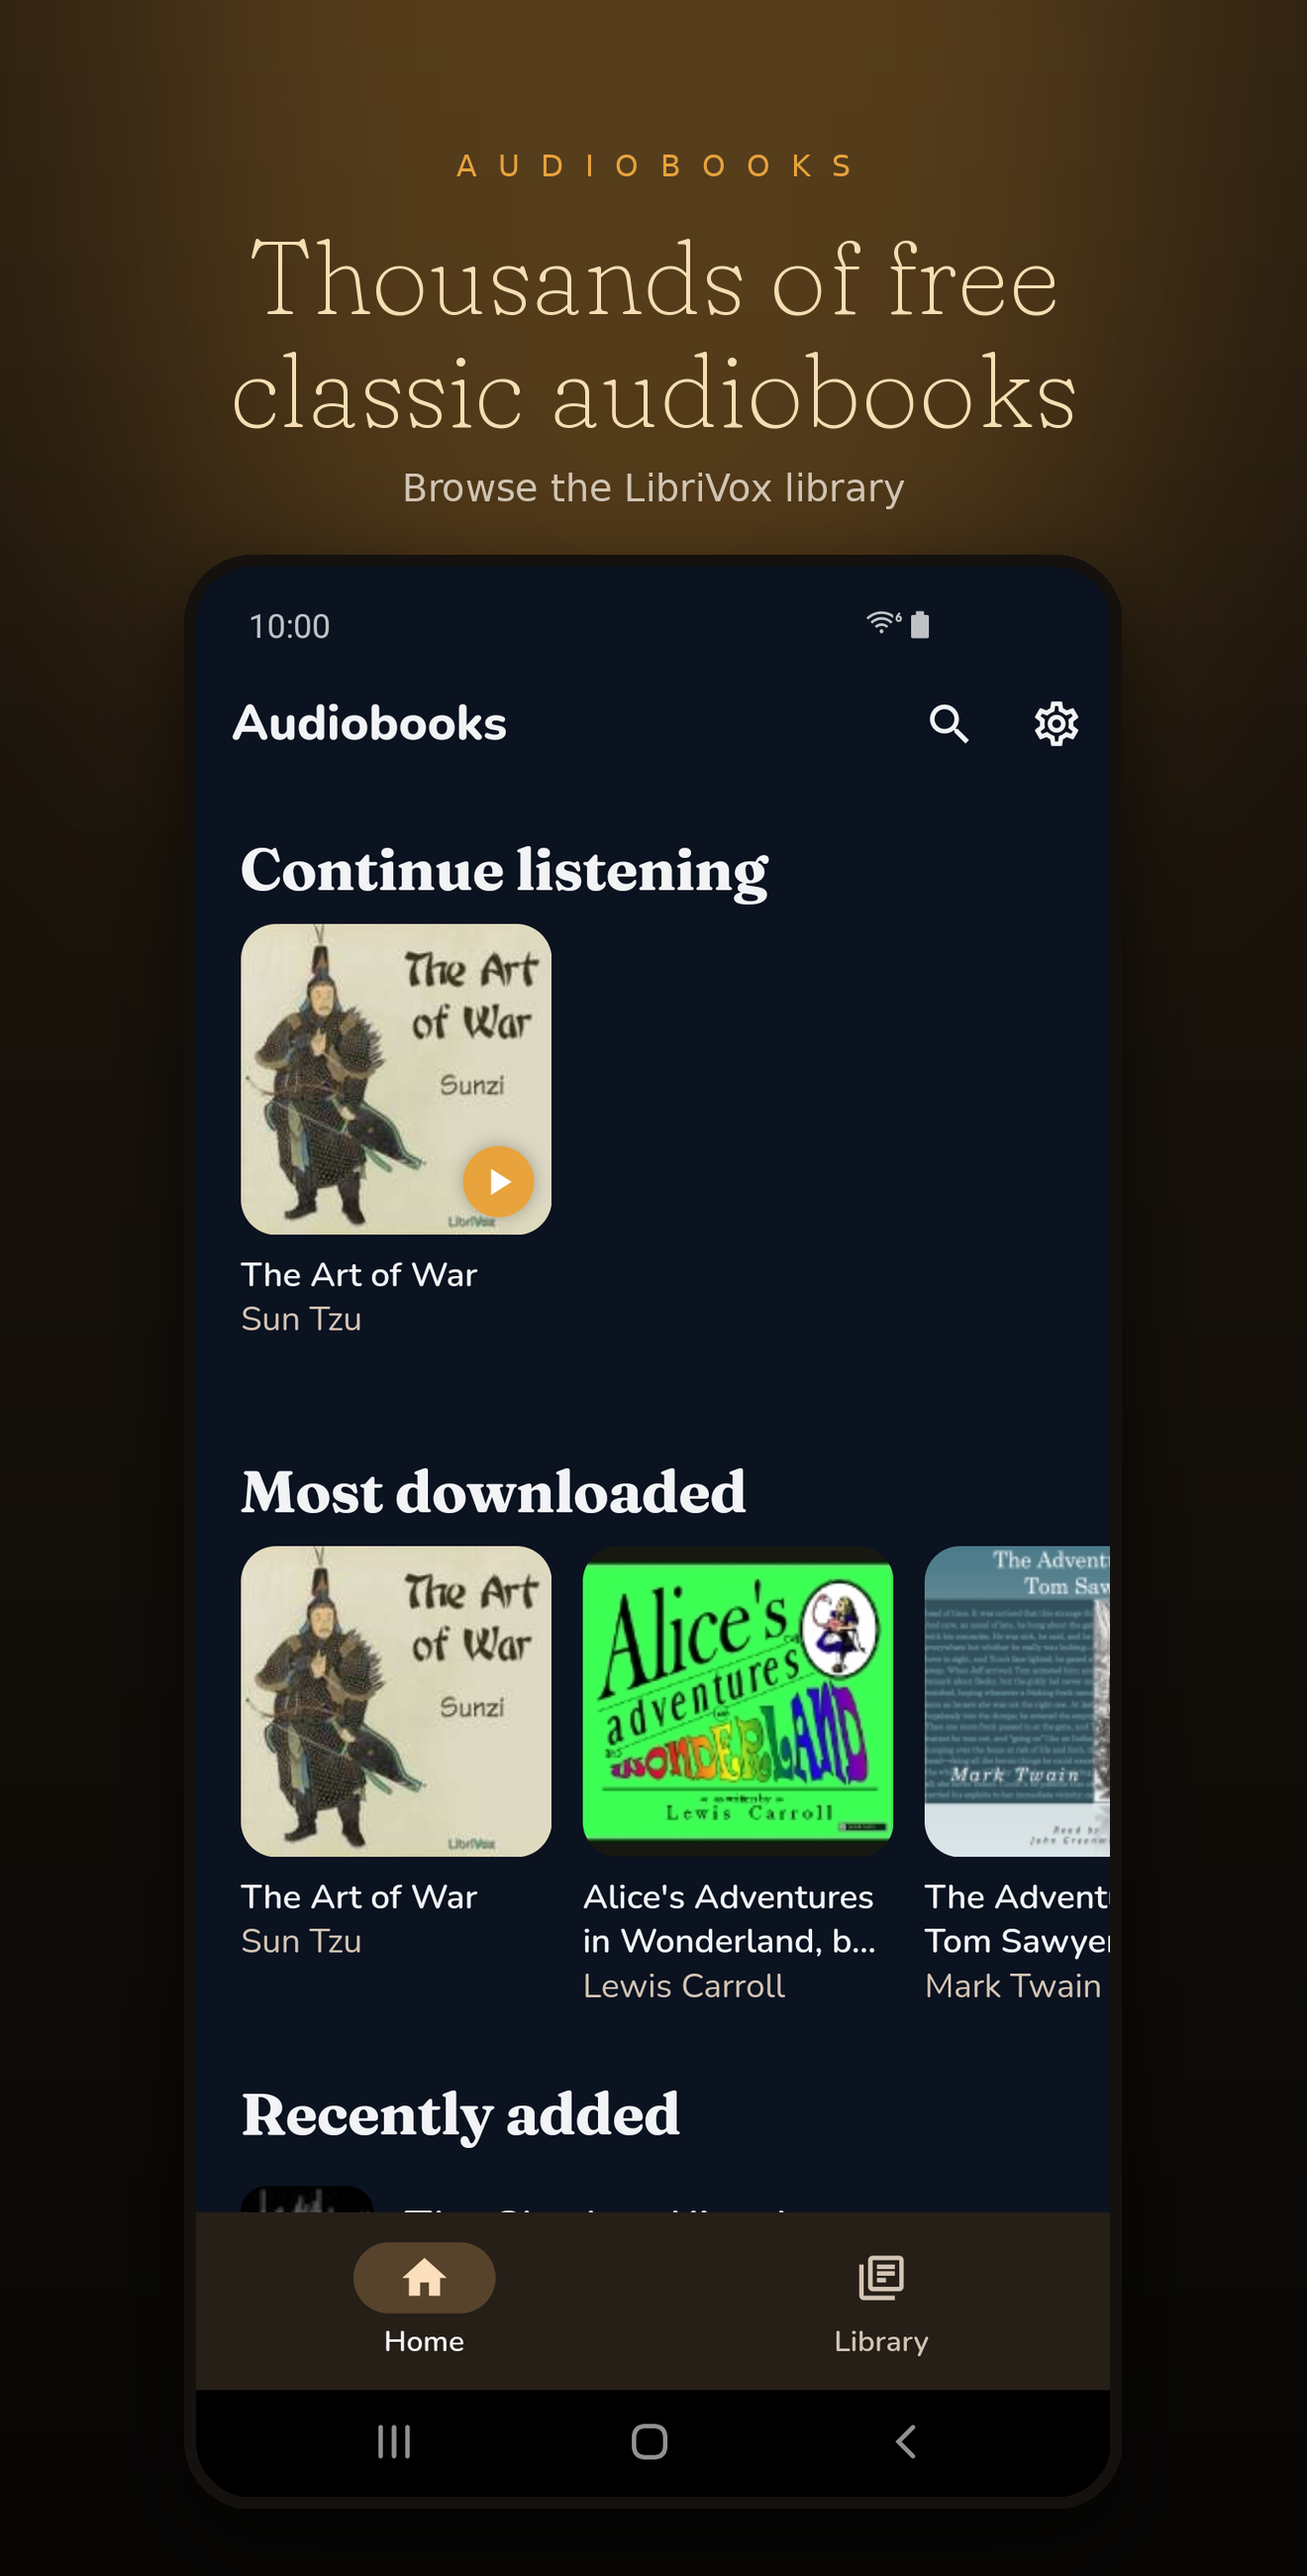
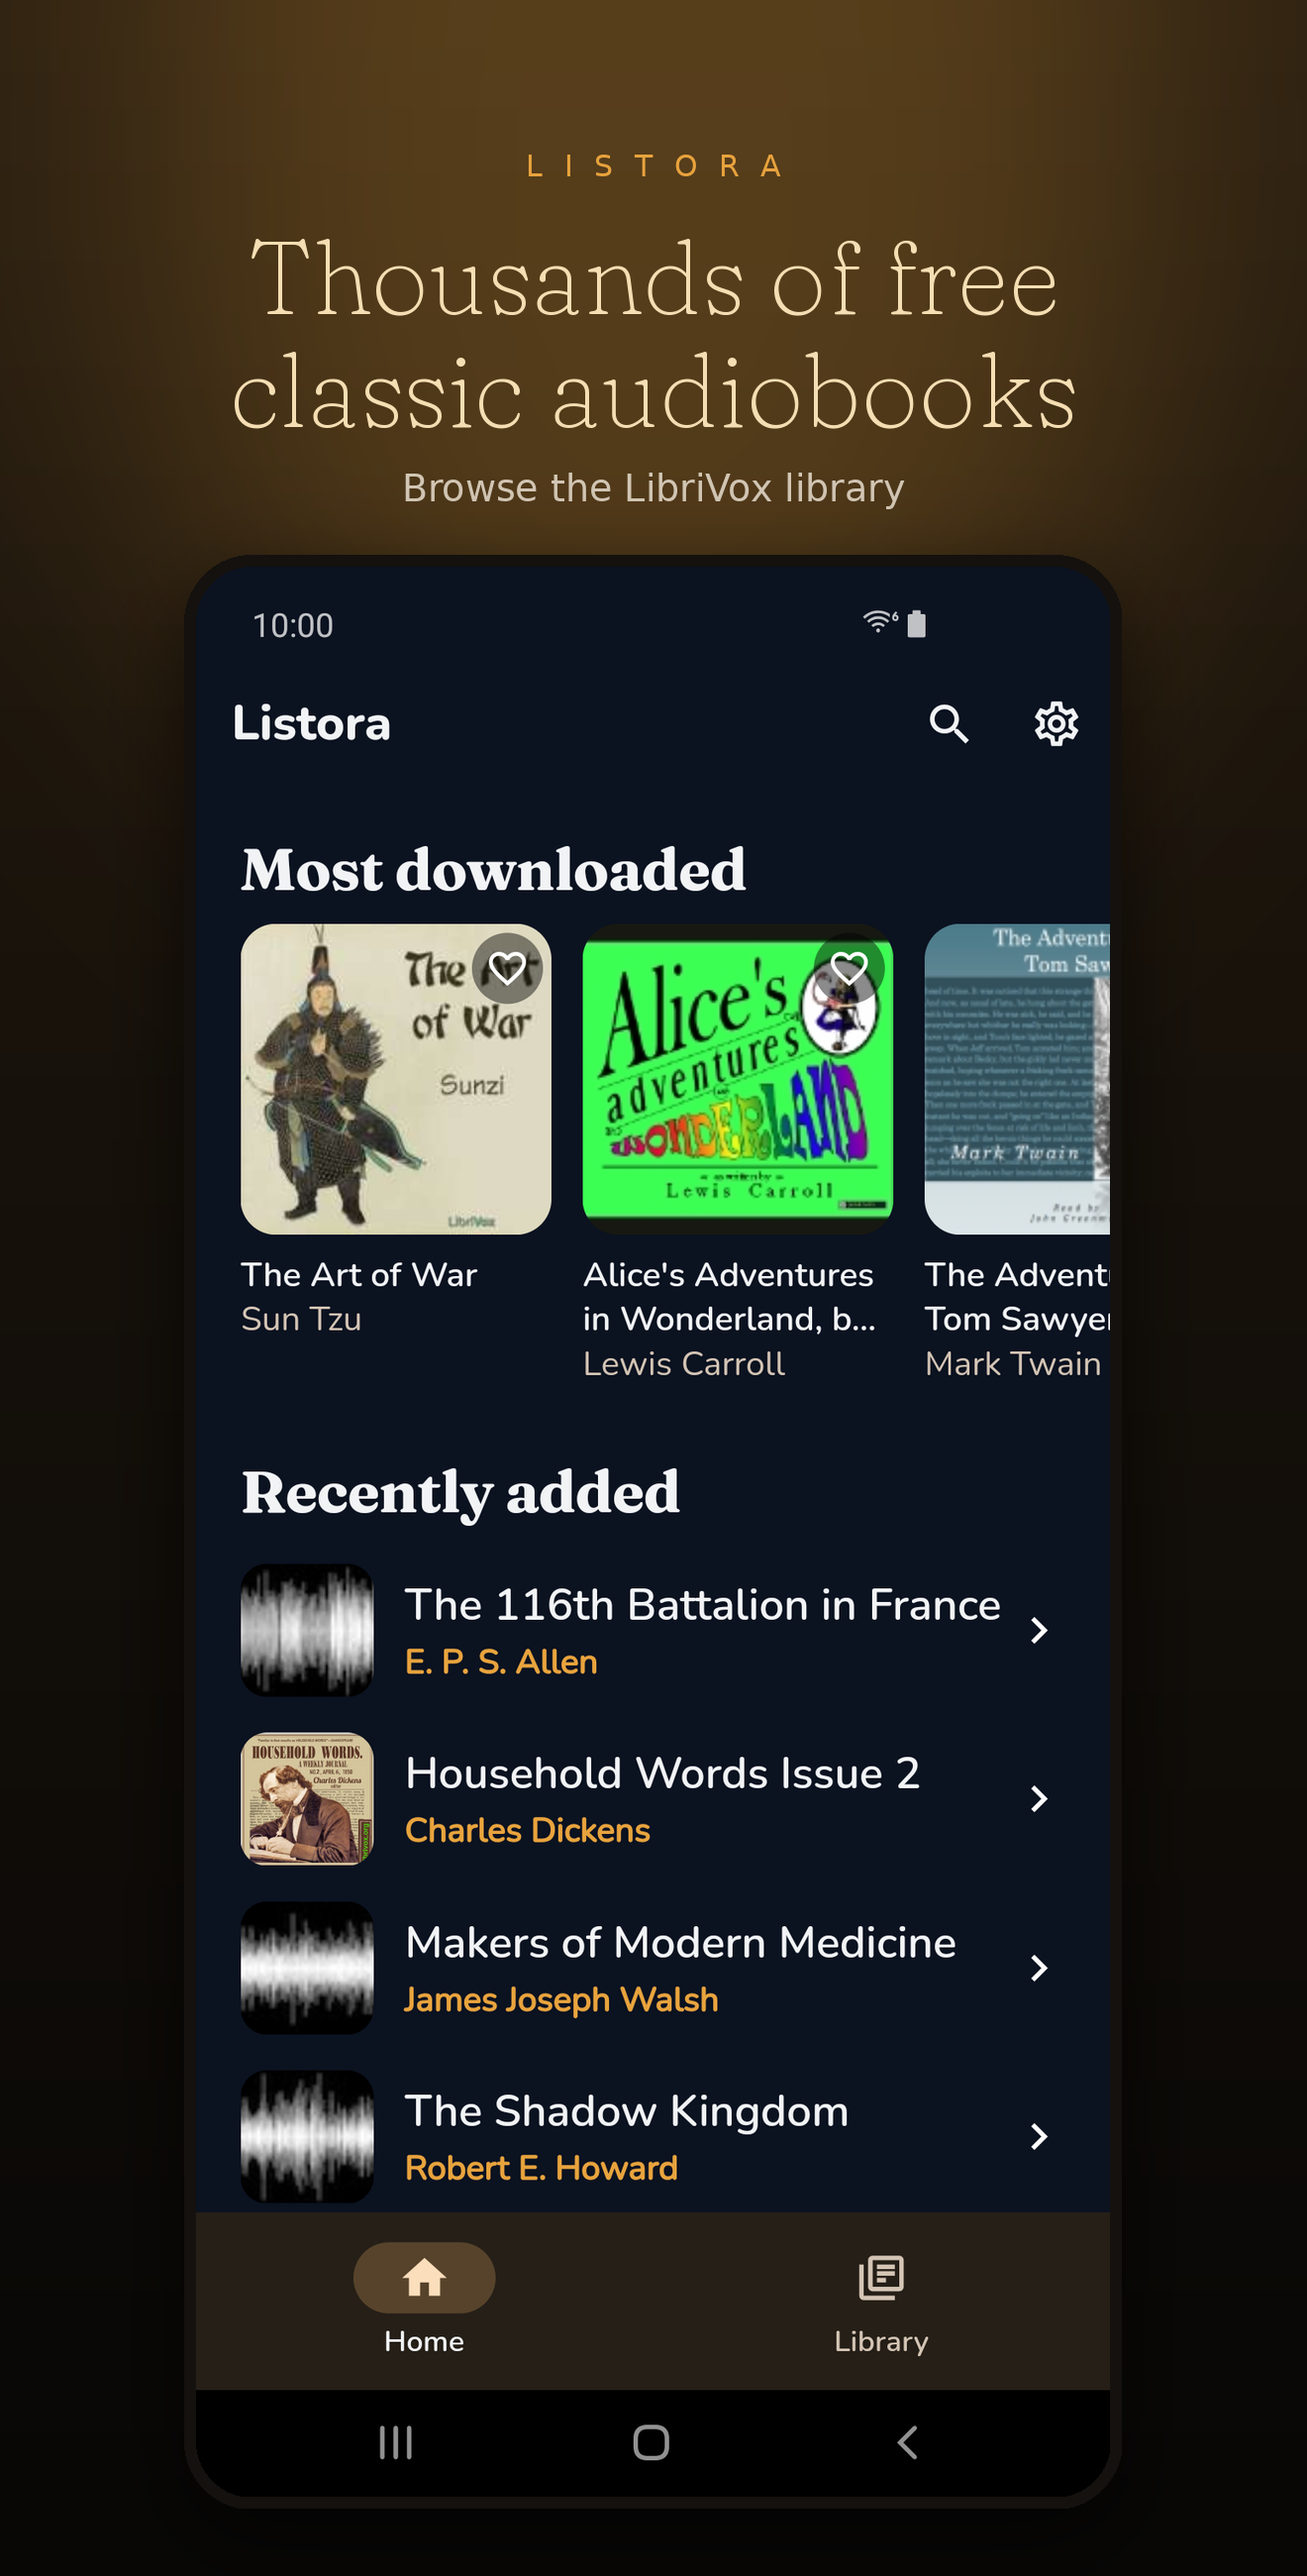
rename app to Listora (display name + application id) everywhere
- application/bundle id -> com.popupbits.listora (Android applicationId +
  namespace + MainActivity package; iOS PRODUCT_BUNDLE_IDENTIFIER x3; macOS)
- display name -> "Listora" (Android label, iOS CFBundleName/DisplayName,
  macOS PRODUCT_NAME, MaterialApp title, Home app bar, notification channel,
  theme product name)
- drop deprecated package= attr from debug/profile manifests (namespace handles it)
- README, pubspec description, and store-art generators -> Listora;
  feature graphic + marketing frames + Home screenshot regenerated
- remove dead, unreferenced MyApplication.java that disabled all SSL cert
  validation (trust-all-certs MITM hole; not wired in, HTTPS works without it)

Internal Dart package (`audiobooks`) and code symbols kept (not user-visible).
Keystore unaffected. Verified on device: installs as com.popupbits.listora,
launcher + App info show "Listora".

diff --git a/lib/resources/audio_helper.dart b/lib/resources/audio_helper.dart
@@ -141,7 +141,7 @@ class AudiobookPlayer {
 Future<void> initAudioService() async {
   await JustAudioBackground.init(
     androidNotificationChannelId: 'com.popupbits.audiobooks.channel.audio',
-    androidNotificationChannelName: 'Audiobook Playback',
+    androidNotificationChannelName: 'Listora',
     // Not "ongoing": the notification can be swiped away when paused/stopped.
     androidNotificationOngoing: false,
     androidStopForegroundOnPause: true,

diff --git a/lib/main.dart b/lib/main.dart
@@ -33,7 +33,7 @@ class AudioBooksApp extends ConsumerWidget {
   Widget build(BuildContext context, WidgetRef ref) {
     final themeMode = ref.watch(settingsProvider).themeMode;
     return MaterialApp(
-      title: 'Audiobooks',
+      title: 'Listora',
       theme: AudiobookTheme.light(),
       darkTheme: AudiobookTheme.dark(),
       themeMode: themeMode,

diff --git a/lib/pages/home_page.dart b/lib/pages/home_page.dart
@@ -130,7 +130,7 @@ class _HomePageState extends ConsumerState<HomePage> {
   }
 
   Widget _appBar() => SliverAppBar(
-        title: const Text('Audiobooks'),
+        title: const Text('Listora'),
         floating: true,
         actions: [
           _SearchAnchorButton(onOpen: _openDetail, onAuthor: _openAuthor),

diff --git a/lib/theme/audiobook_theme.dart b/lib/theme/audiobook_theme.dart
@@ -5,7 +5,7 @@ import 'package:popup_bits_design/popup_bits_design.dart';
 class AudiobookTheme {
   static const product = PbProductTheme(
     id: 'audiobooks',
-    name: 'Audiobooks',
+    name: 'Listora',
     accent: Color(0xFFE8A33D),
     accentSoft: Color(0xFFFEF3C7),
     accentInk: Color(0xFF14110E),

diff --git a/android/app/src/main/kotlin/com/popupbits/listora/MainActivity.kt b/android/app/src/main/kotlin/com/popupbits/listora/MainActivity.kt
@@ -1,4 +1,4 @@
-package com.popupbits.flutter_audiobooks_app
+package com.popupbits.listora
 
 import io.flutter.embedding.android.FlutterActivity
 

diff --git a/playstore_screenshots/_make_marketing.py b/playstore_screenshots/_make_marketing.py
@@ -99,7 +99,7 @@ for name, headline, sub in SHOTS:
     d = ImageDraw.Draw(canvas)
 
     # kicker (app name, tracked small caps)
-    tracked(d, cw / 2, 150, "A U D I O B O O K S", kicker_font, ACCENT, tracking=6)
+    tracked(d, cw / 2, 150, "L I S T O R A", kicker_font, ACCENT, tracking=6)
 
     # headline
     draw_centered(d, cw / 2, 215, headline, head_font, ACCENT_SOFT, spacing=12)

diff --git a/tool/make_feature_graphic.py b/tool/make_feature_graphic.py
@@ -62,7 +62,7 @@ img.paste(icon, (62, 100), mask)
 d = ImageDraw.Draw(img)
 tx = 410
 # wordmark
-d.text((tx, 150), "Audiobooks", font=font(SERIF, 96, weight=600), fill=CREAM)
+d.text((tx, 150), "Listora", font=font(SERIF, 96, weight=600), fill=CREAM)
 # tagline
 d.text((tx, 268), "Free classic audiobooks,", font=ImageFont.truetype(SANS, 40),
        fill=(214, 202, 184))

diff --git a/README.md b/README.md
@@ -1,6 +1,6 @@
-# Audiobooks
+# Listora
 
-A beautiful, free audiobook player for the public-domain
+Listora — a beautiful, free audiobook player for the public-domain
 [LibriVox](https://librivox.org) catalogue (served via the
 [Internet Archive](https://archive.org)). Browse, stream, download for offline
 listening, and pick up right where you left off — all free, forever.
